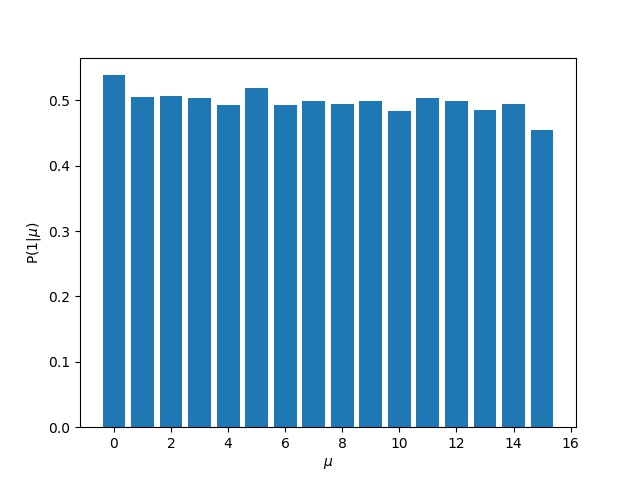
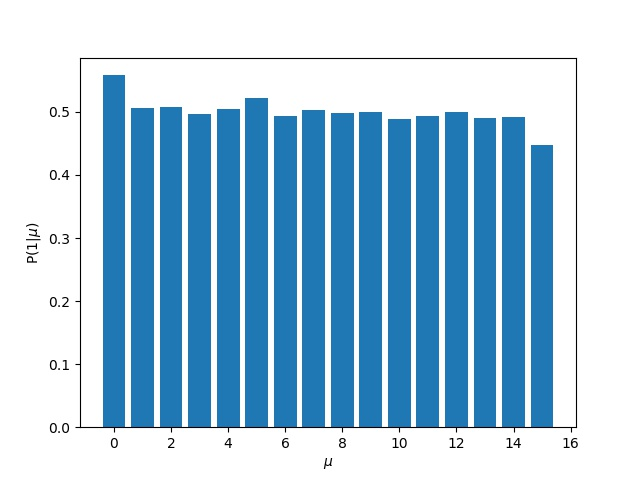
5/10, A2 problem

diff --git a/minority_game-master/minoritygame.py b/minority_game-master/minoritygame.py
@@ -59,6 +59,7 @@ class System:
         self.SuccessRates = [] # for storing the global success rates
         self.W = [rand_pm() for i in range(self.m)]# initialize global info (i.e. the winning actions)
         self.A = [] # net actions. sum_i a_i, where a_i is the i-th user's action +1 or -1
+        self.A2= []
         self.figure2=[[0 for i in range(2)]for j in range(2**m)]
         self.lp=lp
         self.figure4=[[0 for i in range(2)]for j in range(2**m)]
@@ -78,7 +79,8 @@ class System:
         d = self.d
         self.A.append(d)
 
-
+        if self.T-t>=50:
+            self.A2.append(d)
         temp_state=self.state
 
         if minority(d) == -1:

diff --git a/minority_game-master/sim_volati_alpha_N.py b/minority_game-master/sim_volati_alpha_N.py
@@ -14,7 +14,7 @@ for i in range(len(N)):
             sim = System(T=500,N=N[i], m=m,s=s,lp=1)
             sim.run()
             x.append(float(2**m)/float(N[i]))
-            y.append(var(sim.D2)/float(N[i]))
+            y.append(var(sim.A2)/float(N[i]))
         X.append(mean(x))
         Y.append(mean(y))
         print('m='+str(m))

diff --git a/minority_game-master/sim_var_t.py b/minority_game-master/sim_var_t.py
@@ -24,3 +24,4 @@ plt.ylabel(r'occurrence')
 plt.savefig('Var_t.jpg')
 plt.show()
 
+
